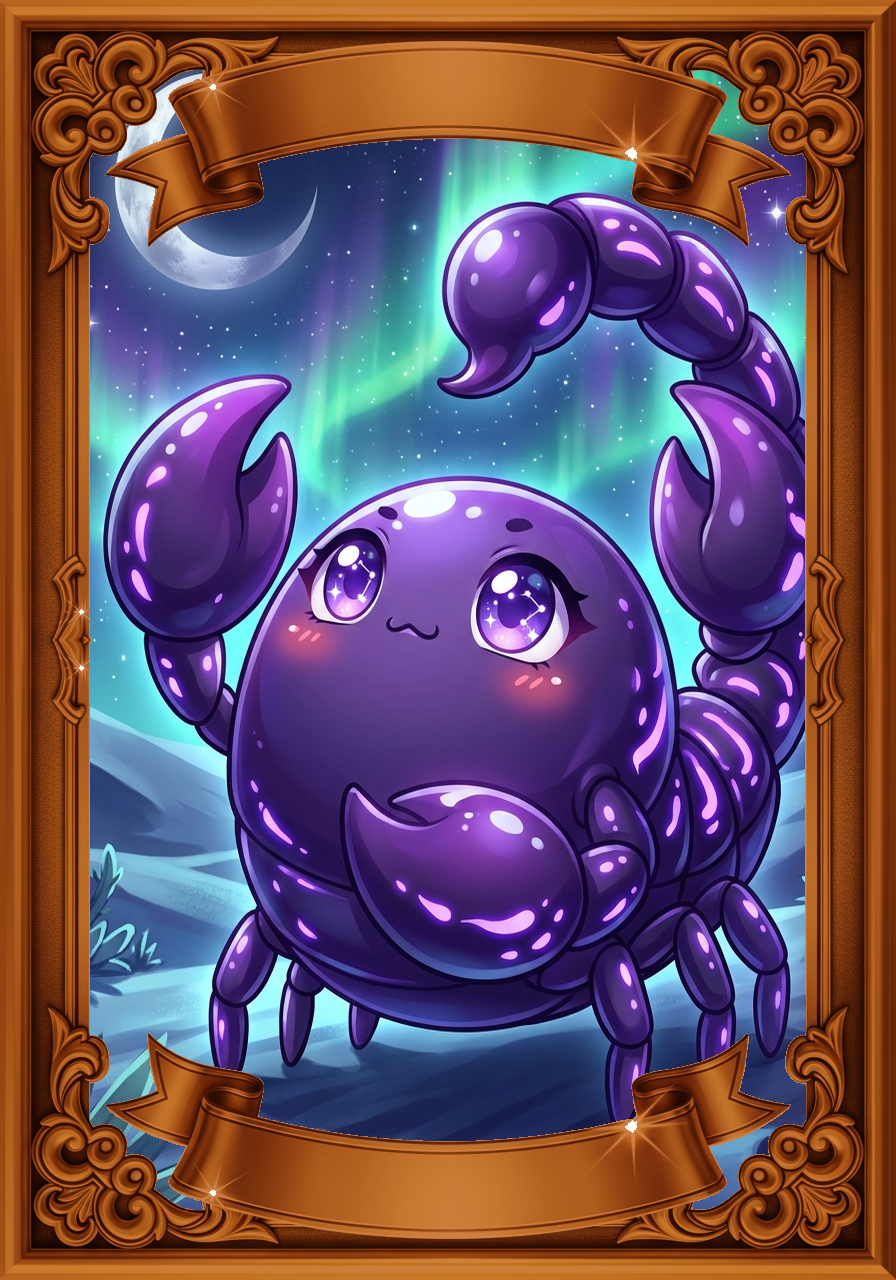
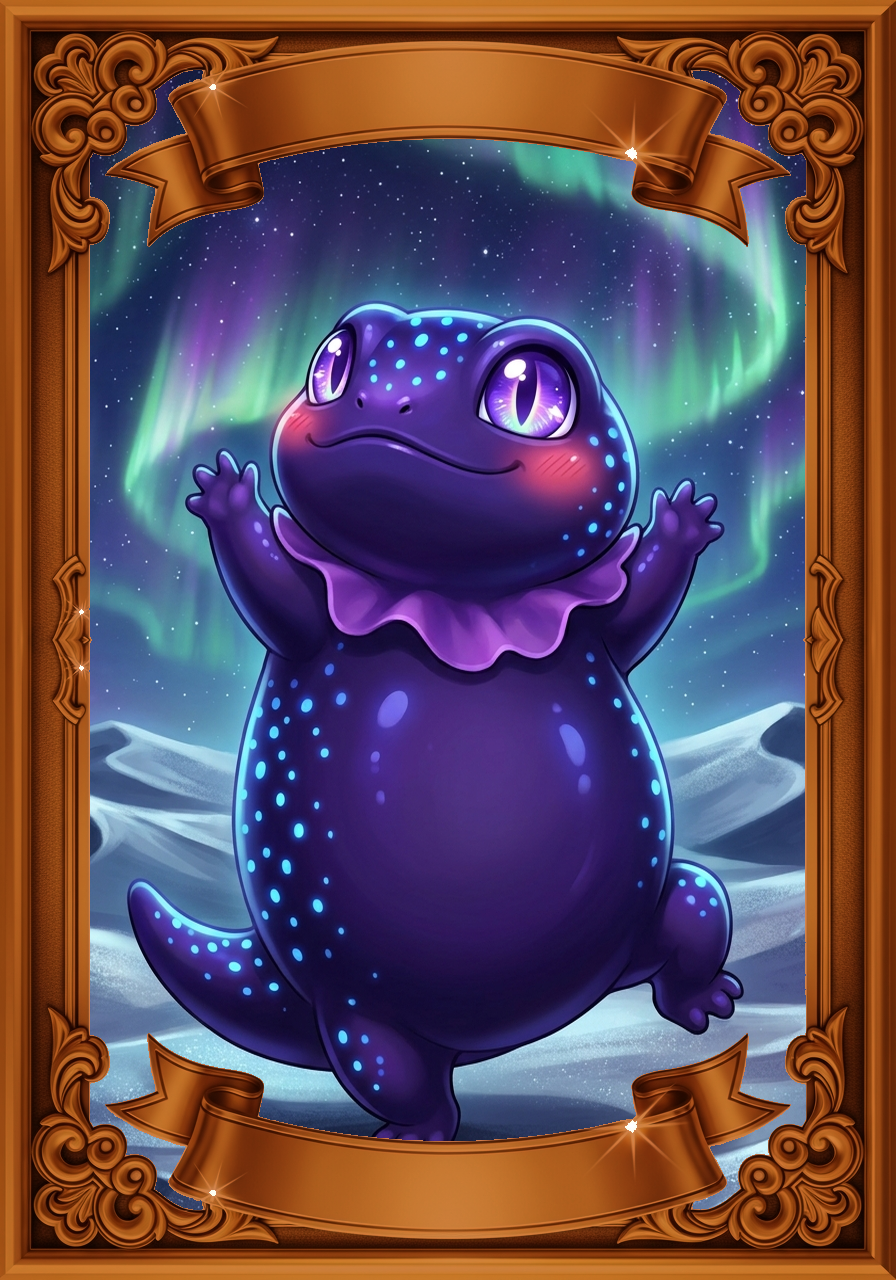
HARD_1: サソリン→スナトカゲ(ターコイズ砂漠トカゲ)に変更
- hard_1: ターコイズブルーの砂漠トカゲが岩の上で日向ぼっこ
- hard+_1: 紫の夜行性バリアント、オーロラの下で踊る
- SVGアイコンもトカゲデザインに更新（爬虫類スリット瞳）

diff --git a/stage.html b/stage.html
@@ -1911,7 +1911,7 @@ const ENEMIES = {
   HARD: [
     // 砂漠（ザナラーン風）— カード絵柄に合わせたデフォルメブロブ
     {name:'ラクーダ', svg:()=>`<svg viewBox="0 0 80 80"><defs><radialGradient id="hrk" cx="45%" cy="40%"><stop offset="0%" stop-color="#E8D0A0"/><stop offset="100%" stop-color="#C0A060"/></radialGradient></defs><ellipse cx="40" cy="48" rx="26" ry="24" fill="url(#hrk)" stroke="#906820" stroke-width="2.5"/><ellipse cx="40" cy="26" rx="10" ry="6" fill="#D0B878" stroke="#906820" stroke-width="2"/><path d="M24 32 Q22 24 26 28" fill="#C0A060" stroke="#906820" stroke-width="2"/><path d="M56 32 Q58 24 54 28" fill="#C0A060" stroke="#906820" stroke-width="2"/><ellipse cx="40" cy="58" rx="16" ry="8" fill="#E8D8B0" opacity="0.4"/><circle cx="30" cy="42" r="7" fill="#FFF" stroke="#906820" stroke-width="2"/><circle cx="50" cy="42" r="7" fill="#FFF" stroke="#906820" stroke-width="2"/><circle cx="31" cy="43" r="4.5" fill="#805828"/><circle cx="51" cy="43" r="4.5" fill="#805828"/><circle cx="29" cy="41" r="2" fill="#FFF"/><circle cx="49" cy="41" r="2" fill="#FFF"/><path d="M36 58 Q40 62 44 58" fill="none" stroke="#906820" stroke-width="2" stroke-linecap="round"/><ellipse cx="26" cy="52" rx="4" ry="2.5" fill="#FFB7B7" opacity="0.4"/><ellipse cx="54" cy="52" rx="4" ry="2.5" fill="#FFB7B7" opacity="0.4"/></svg>`},
-    {name:'サソリン', svg:()=>`<svg viewBox="0 0 80 80"><defs><radialGradient id="hsr" cx="45%" cy="40%"><stop offset="0%" stop-color="#E0C898"/><stop offset="100%" stop-color="#B89860"/></radialGradient></defs><ellipse cx="40" cy="48" rx="24" ry="22" fill="url(#hsr)" stroke="#907040" stroke-width="2.5"/><path d="M48 24 Q52 16 54 20 Q56 24 52 28 Q48 32 46 28" fill="#C0A870" stroke="#907040" stroke-width="2"/><circle cx="53" cy="18" r="3" fill="#FF8030" opacity="0.6"/><path d="M22 42 L16 38 Q18 34 24 40" fill="#C0A870" stroke="#907040" stroke-width="2"/><path d="M58 42 L64 38 Q62 34 56 40" fill="#C0A870" stroke="#907040" stroke-width="2"/><circle cx="32" cy="42" r="7" fill="#FFF" stroke="#907040" stroke-width="2"/><circle cx="48" cy="42" r="7" fill="#FFF" stroke="#907040" stroke-width="2"/><circle cx="33" cy="43" r="4.5" fill="#A07030"/><circle cx="49" cy="43" r="4.5" fill="#A07030"/><circle cx="31" cy="41" r="2" fill="#FFF"/><circle cx="47" cy="41" r="2" fill="#FFF"/><path d="M36 58 Q40 56 44 58" fill="none" stroke="#907040" stroke-width="2" stroke-linecap="round"/><ellipse cx="26" cy="52" rx="3" ry="2" fill="#FF9090" opacity="0.3"/></svg>`},
+    {name:'スナトカゲ', svg:()=>`<svg viewBox="0 0 80 80"><defs><radialGradient id="hst" cx="45%" cy="40%"><stop offset="0%" stop-color="#50D0D8"/><stop offset="100%" stop-color="#2098A8"/></radialGradient></defs><ellipse cx="40" cy="48" rx="24" ry="22" fill="url(#hst)" stroke="#107888" stroke-width="2.5"/><circle cx="34" cy="36" r="2" fill="#30B8C0" opacity="0.5"/><circle cx="50" cy="34" r="1.5" fill="#30B8C0" opacity="0.4"/><circle cx="28" cy="44" r="1.5" fill="#30B8C0" opacity="0.4"/><path d="M22 46 L16 50" fill="none" stroke="#2098A8" stroke-width="2" stroke-linecap="round"/><path d="M58 46 L64 50" fill="none" stroke="#2098A8" stroke-width="2" stroke-linecap="round"/><path d="M24 56 L18 60" fill="none" stroke="#2098A8" stroke-width="2" stroke-linecap="round"/><path d="M56 56 L62 60" fill="none" stroke="#2098A8" stroke-width="2" stroke-linecap="round"/><path d="M56 58 Q62 54 66 58 Q68 62 64 60" fill="#2098A8" stroke="#107888" stroke-width="1.5"/><ellipse cx="40" cy="58" rx="14" ry="6" fill="#80E0E8" opacity="0.3"/><circle cx="32" cy="42" r="7" fill="#FFF" stroke="#107888" stroke-width="2"/><circle cx="48" cy="42" r="7" fill="#FFF" stroke="#107888" stroke-width="2"/><ellipse cx="33" cy="43" rx="3" ry="4.5" fill="#109098"/><ellipse cx="49" cy="43" rx="3" ry="4.5" fill="#109098"/><circle cx="31" cy="41" r="1.5" fill="#FFF"/><circle cx="47" cy="41" r="1.5" fill="#FFF"/><path d="M36 56 Q40 58 44 56" fill="none" stroke="#107888" stroke-width="2" stroke-linecap="round"/></svg>`},
     {name:'ハヤブサン', svg:()=>`<svg viewBox="0 0 80 80"><defs><radialGradient id="hhb" cx="45%" cy="40%"><stop offset="0%" stop-color="#E0B060"/><stop offset="100%" stop-color="#C08830"/></radialGradient></defs><ellipse cx="40" cy="48" rx="24" ry="22" fill="url(#hhb)" stroke="#906820" stroke-width="2.5"/><ellipse cx="40" cy="58" rx="16" ry="8" fill="#F0E0C0" opacity="0.5"/><ellipse cx="18" cy="40" rx="10" ry="5" fill="#C09040" stroke="#906820" stroke-width="2" transform="rotate(-10 18 40)"/><ellipse cx="62" cy="40" rx="10" ry="5" fill="#C09040" stroke="#906820" stroke-width="2" transform="rotate(10 62 40)"/><path d="M38 34 L40 28 L42 34" fill="#D0A030" stroke="#A08020" stroke-width="2" stroke-linejoin="round"/><circle cx="32" cy="42" r="7" fill="#FFF" stroke="#906820" stroke-width="2"/><circle cx="48" cy="42" r="7" fill="#FFF" stroke="#906820" stroke-width="2"/><circle cx="33" cy="43" r="4.5" fill="#D0A020"/><circle cx="49" cy="43" r="4.5" fill="#D0A020"/><circle cx="31" cy="41" r="2" fill="#FFF"/><circle cx="47" cy="41" r="2" fill="#FFF"/><path d="M34 36 Q36 32 38 36" fill="none" stroke="#906820" stroke-width="2" stroke-linecap="round"/><path d="M42 36 Q44 32 46 36" fill="none" stroke="#906820" stroke-width="2" stroke-linecap="round"/><path d="M36 58 Q40 56 44 58" fill="none" stroke="#906820" stroke-width="2" stroke-linecap="round"/></svg>`},
     {name:'サボテンダ', svg:()=>`<svg viewBox="0 0 80 80"><ellipse cx="40" cy="50" rx="22" ry="24" fill="#40A850" stroke="#208030" stroke-width="2.5"/><circle cx="36" cy="42" r="2" fill="#FFF" opacity="0.3"/><path d="M22 42 L16 34 Q18 30 24 38" fill="#40A850" stroke="#208030" stroke-width="2"/><path d="M58 42 L64 34 Q62 30 56 38" fill="#40A850" stroke="#208030" stroke-width="2"/><circle cx="40" cy="24" r="5" fill="#F080A0" stroke="#D06080" stroke-width="1.5"/><circle cx="40" cy="24" r="2" fill="#FFF" opacity="0.5"/><circle cx="32" cy="42" r="6" fill="#FFF" stroke="#208030" stroke-width="2"/><circle cx="48" cy="42" r="6" fill="#FFF" stroke="#208030" stroke-width="2"/><circle cx="33" cy="43" r="4" fill="#303030"/><circle cx="49" cy="43" r="4" fill="#303030"/><circle cx="31" cy="41" r="1.5" fill="#FFF"/><circle cx="47" cy="41" r="1.5" fill="#FFF"/><path d="M36 58 Q40 62 44 58" fill="none" stroke="#208030" stroke-width="2" stroke-linecap="round"/></svg>`},
     {name:'スフィラン', mid:true, svg:()=>`<svg viewBox="0 0 80 80"><defs><radialGradient id="hsf" cx="45%" cy="40%"><stop offset="0%" stop-color="#E8C870"/><stop offset="100%" stop-color="#C0A040"/></radialGradient></defs><ellipse cx="40" cy="48" rx="26" ry="24" fill="url(#hsf)" stroke="#907020" stroke-width="2.5"/><path d="M16 36 Q14 24 22 28 L26 34" fill="#3060C0" stroke="#204090" stroke-width="2"/><path d="M64 36 Q66 24 58 28 L54 34" fill="#3060C0" stroke="#204090" stroke-width="2"/><path d="M26 28 Q30 20 34 28" fill="#3060C0" stroke="#204090" stroke-width="1.5"/><path d="M46 28 Q50 20 54 28" fill="#3060C0" stroke="#204090" stroke-width="1.5"/><path d="M34 28 Q40 22 46 28" fill="#E8C870" stroke="#907020" stroke-width="1.5"/><circle cx="40" cy="24" r="3" fill="#FFD700" stroke="#C0A020" stroke-width="1.5"/><ellipse cx="22" cy="42" rx="6" ry="4" fill="#D0B050" stroke="#907020" stroke-width="1.5" transform="rotate(-10 22 42)"/><ellipse cx="58" cy="42" rx="6" ry="4" fill="#D0B050" stroke="#907020" stroke-width="1.5" transform="rotate(10 58 42)"/><path d="M36 54 L38 58 M42 54 L40 58" fill="none" stroke="#C0A040" stroke-width="2" stroke-linecap="round"/><circle cx="30" cy="40" r="8" fill="#FFF" stroke="#907020" stroke-width="2"/><circle cx="50" cy="40" r="8" fill="#FFF" stroke="#907020" stroke-width="2"/><circle cx="31" cy="41" r="5.5" fill="#D0A020"/><circle cx="51" cy="41" r="5.5" fill="#D0A020"/><circle cx="29" cy="39" r="2" fill="#FFF"/><circle cx="49" cy="39" r="2" fill="#FFF"/><path d="M36 56 Q40 52 44 56" fill="none" stroke="#907020" stroke-width="2" stroke-linecap="round"/></svg>`},
